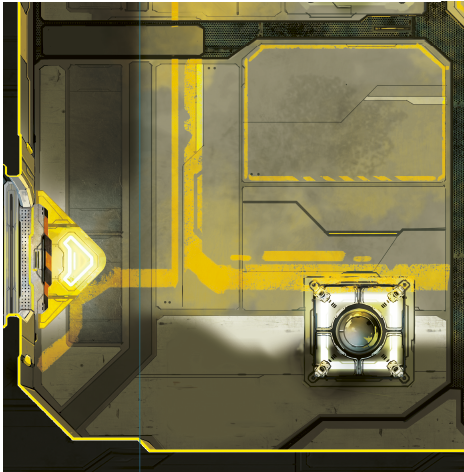
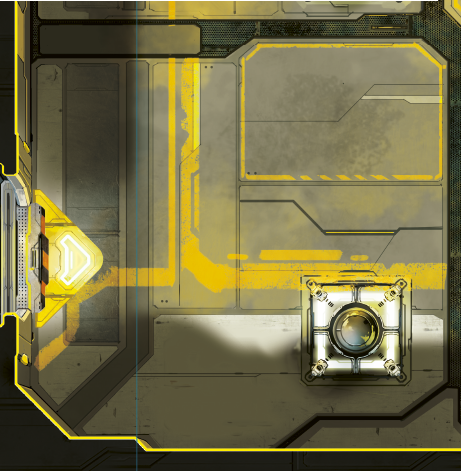
Fixed first gui Map.

diff --git a/src/main/java/view/gui/GUIMap1.java b/src/main/java/view/gui/GUIMap1.java
@@ -28,25 +28,25 @@ public class GUIMap1 extends JPanel {
         }
 
         JFrame frame = new JFrame("label");
-
-
+        frame.setSize(681,920);
+        frame.setResizable(false);
         JLabel label = new JLabel();
-        setGreenAmmoTile(label,"src/resources/gui/firstMap/tile1.png");
-        setYellowAmmoTile(label);
-        setGreenAmmoTile(label,"src/resources/gui/firstMap/tile3.png");
-        setGreenAmmoTile(label,"src/resources/gui/firstMap/tile4.png");
-        setGreenAmmoTile(label,"src/resources/gui/firstMap/tile5.png");
-        setGreenAmmoTile(label,"src/resources/gui/firstMap/tile6.png");
-        setGreenAmmoTile(label,"src/resources/gui/firstMap/tile7.png");
-        setGreenAmmoTile(label,"src/resources/gui/firstMap/tile8.png");
-        setGreenAmmoTile(label,"src/resources/gui/firstMap/tile9.png");
-        setGreenAmmoTile(label,"src/resources/gui/firstMap/tile10.png");
-        setGreenAmmoTile(label,"src/resources/gui/firstMap/tile11.png");
-        setGreenAmmoTile(label,"src/resources/gui/firstMap/tile12.png");
+        setFirstTile(label,"src/resources/gui/firstMap/tile1.png");
+        setFollowingTile(label,"src/resources/gui/firstMap/tile2.png");
+        setFollowingTile(label,"src/resources/gui/firstMap/tile3.png");
+        setFollowingTile(label,"src/resources/gui/firstMap/tile4.png");
+        setFollowingTile(label,"src/resources/gui/firstMap/tile5.png");
+        setFollowingTile(label,"src/resources/gui/firstMap/tile6.png");
+        setFollowingTile(label,"src/resources/gui/firstMap/tile7.png");
+        setFollowingTile(label,"src/resources/gui/firstMap/tile8.png");
+        setFollowingTile(label,"src/resources/gui/firstMap/tile9.png");
+        setFollowingTile(label,"src/resources/gui/firstMap/tile10.png");
+        setFollowingTile(label,"src/resources/gui/firstMap/tile11.png");
+        setFollowingTile(label,"src/resources/gui/firstMap/tile12.png");
 
         frame.add(label);
         frame.setDefaultCloseOperation(JFrame.EXIT_ON_CLOSE);
-        frame.pack();
+        //DO NOT USE pack() !!!
         frame.setVisible(true);
     }
 
@@ -54,7 +54,7 @@ public class GUIMap1 extends JPanel {
         new GUIMap1();
     }
 
-    private void setGreenAmmoTile(JLabel label, String path){
+    private void setFollowingTile(JLabel label, String path){
         try {
             ammoTile = ImageIO.read(new File(path));
         } catch (IOException e) {
@@ -73,9 +73,9 @@ public class GUIMap1 extends JPanel {
         label.add(ammoButton);
     }
 
-    private void setYellowAmmoTile(JLabel label){
+    private void setFirstTile(JLabel label,String path){
         try {
-            ammoTile = ImageIO.read(new File("src/resources/gui/firstMap/tile2.png"));
+            ammoTile = ImageIO.read(new File(path));
         } catch (IOException e) {
             System.out.println("Errore su file da aprire.");
         }
